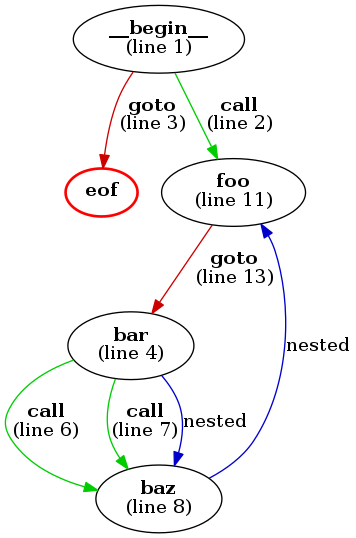
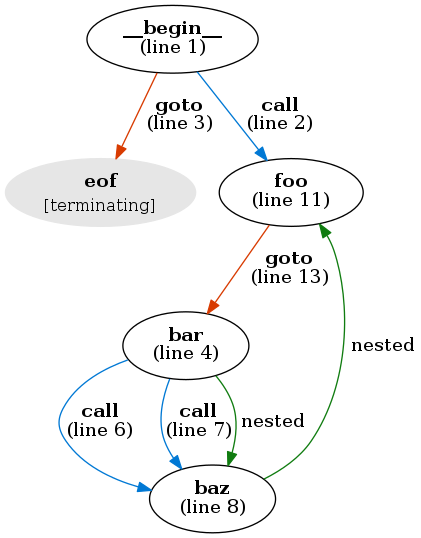
Improve rendering
Use a color palette with more muted colors;
do not rely on colors alone to convey information.

Fixes #14.

diff --git a/callgraph/render.py b/callgraph/render.py
@@ -8,12 +8,14 @@ def _Escape(input_string):
     return input_string.replace("%", r"\%")
 
 
+COLORS = {
+    'goto':         '"#d83b01"', # Orange
+    'nested':       '"#107c10"', # Green
+    'call':         '"#0078d4"', # Blue
+    'terminating':  '"#e6e6e6"', # Light gray
+}
+
 def PrintDot(call_graph, out_file=sys.stdout, log_file=sys.stderr, show_all_calls=True, show_node_stats=False, nodes_to_hide=None):
-    kind_colors = {
-        "goto": "red3",
-        "nested": "blue3",
-        "call": "green3",
-    }
     # Output the DOT code.
     print(u"digraph g {", file=out_file)
 
@@ -44,11 +46,13 @@ def PrintDot(call_graph, out_file=sys.stdout, log_file=sys.stderr, show_all_call
                 text = "call" if external_call_count == 1 else "calls"
                 label_lines.append("<sub>[{} external {}]</sub>".format(external_call_count, text))
             
+        if node.is_exit_node:
+            attributes.append("color={}".format(COLORS["terminating"]))
+            attributes.append("style=filled")
+            label_lines.append("<sub>[terminating]</sub>")
+
         attributes.append("label=<{}>".format("<br/>".join(label_lines)))
 
-        if node.is_exit_node:
-            attributes.append("color=red")
-            attributes.append("penwidth=2")
         if attributes:
             print(u"\"{}\" [{}]".format(name, ",".join(attributes)), file=out_file)
 
@@ -62,11 +66,11 @@ def PrintDot(call_graph, out_file=sys.stdout, log_file=sys.stderr, show_all_call
             if nodes_to_hide and (c.dst in nodes_to_hide):
                 print(u"Skipping connection to node {0}".format(c.dst), file=log_file)
                 continue
-            label = c.kind
+            label = "\" {}\"".format(c.kind)
             if c.line_number != core.NO_LINE_NUMBER:
                 label = "<<b>{}</b><br />(line {})>".format(c.kind, c.line_number)
             src_escaped_name = _Escape(name)
             dst_escaped_name = _Escape(c.dst)
-            print(u"\"{}\" -> \"{}\" [label={},color={}]".format(src_escaped_name, dst_escaped_name, label, kind_colors[c.kind]), file=out_file)
+            print(u"\"{}\" -> \"{}\" [label={},color={}]".format(src_escaped_name, dst_escaped_name, label, COLORS[c.kind]), file=out_file)
 
     print(u"}", file=out_file)

diff --git a/CHANGELOG.md b/CHANGELOG.md
@@ -7,6 +7,13 @@ The format is based on [Keep a Changelog](https://keepachangelog.com/en/1.0.0/).
 This project uses [Semantic Versioning](https://semver.org) starting from version
 1.0.0.
 
+## [unreleased]
+
+## Changed
+
+- Changed color palette to be more muted, and do not rely on color alone to convey
+  information (fixes Issue #14)
+
 ## [1.0.0] - 2018-12-17
 
 ### Added
